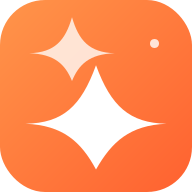
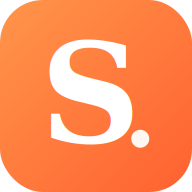
Switch Softly branding to a typography-only wordmark across website and assets
* Redesign Softly logo as typographic wordmark with S. lettermark and matching exports

* build: add optimized Softly brand PNG exports

---------

diff --git a/src/pages/brand.html b/src/pages/brand.html
@@ -6,8 +6,8 @@
       <p class="brand-guide-lede">Softly is an independent design-showcase identity built around a simple belief: an idea should earn attention by making something more meaningful.</p>
       <a class="mini-btn" href="#brand-signature">Explore the signature ↘</a>
     </div>
-    <div class="brand-guide-seal" aria-label="Softly Solutions orange spark symbol with the words Ideas with intention">
-      <img src="/assets/brand/mark.svg" alt="Softly Solutions original spark mark" width="200" height="200" decoding="async">
+    <div class="brand-guide-seal" aria-label="Softly Solutions typographic wordmark with the tagline Ideas with intention">
+      <img class="brand-seal-wordmark" src="/assets/brand/logo-on-dark.svg" alt="Softly Solutions typography-only wordmark" width="460" height="145" decoding="async">
       <span>IDEAS WITH<br><em>INTENTION.</em></span>
       <small>SOFTLY / IDENTITY SYSTEM / 01</small>
     </div>
@@ -29,7 +29,7 @@
         <a href="/assets/brand/logo-on-light.svg" download="softly-logo-on-light.svg" class="brand-download-link">Download SVG ↗</a>
       </article>
     </div>
-    <div class="brand-mark-rule"><div><img src="/assets/brand/mark.svg" alt="Standalone Softly spark mark" width="82" height="82" loading="lazy"><div><strong>The spark</strong><p>Two linked forms suggest the moment an idea becomes clear. Use it as a favicon, avatar, and compact identity.</p></div></div><a class="mini-btn" href="/assets/brand/mark.svg" download="softly-spark.svg">Download symbol ↗</a></div>
+    <div class="brand-mark-rule"><div><img src="/assets/brand/mark.svg" alt="Softly Solutions letter S monogram" width="82" height="82" loading="lazy"><div><strong>The lettermark</strong><p>A compact typographic S with a signature orange field. Use it for favicons, saved shortcuts and square avatars when the full name would be too small.</p></div></div><a class="mini-btn" href="/assets/brand/mark.svg" download="softly-lettermark.svg">Download lettermark ↗</a></div>
   </div>
 </section>
 

diff --git a/src/styles/brand.css b/src/styles/brand.css
@@ -70,3 +70,18 @@
 @media(max-width:900px){.brand-palette-grid{grid-template-columns:repeat(3,minmax(0,1fr));}.brand-color>span{height:100px;}}
 @media(max-width:650px){.brand-guide-intro-grid,.brand-logo-grid,.brand-type-grid,.brand-resources-grid{grid-template-columns:1fr;}.brand-voice-grid{grid-template-columns:1fr;}.brand-guide-seal{min-height:310px;}.brand-logo-panel{min-height:235px;}.brand-color>span{height:78px;}.brand-guide-intro{padding-top:65px;}}
 @media(max-width:360px){.brand-palette-grid{grid-template-columns:repeat(2,minmax(0,1fr));}.brand-mark-rule>div{flex-wrap:wrap;}.brand-color>span{height:100px;}}
+
+
+/* Text-only Softly identity — no pictorial logo, preserving all page compositions. */
+.brand.brand--wordmark{display:inline-flex;min-width:max-content;align-items:center;gap:0;text-decoration:none;}
+.brand.brand--wordmark .brand-lockup{display:flex;flex-direction:column;align-items:flex-start;justify-content:center;min-width:0;gap:0;}
+.brand.brand--wordmark .brand-wordmark{display:block;color:#FFFAF4;font:700 29px/.89 Georgia,"Times New Roman",serif;letter-spacing:-.085em;white-space:nowrap;}
+.brand.brand--wordmark .brand-period{display:inline;color:#FF8A4B;font:inherit;letter-spacing:-.04em;}
+.brand.brand--wordmark .brand-descriptor{display:block;color:#D3B9AC;font:800 7px/1.25 Arial,Helvetica,sans-serif;letter-spacing:.29em;margin:6px 0 0 3px;white-space:nowrap;}
+footer .brand.brand--wordmark .brand-wordmark{color:#211915;font-size:31px;}
+footer .brand.brand--wordmark .brand-descriptor{color:#756256;}
+.brand-guide-seal .brand-seal-wordmark{width:min(310px,86%);max-width:100%;height:auto;filter:drop-shadow(0 15px 22px rgba(0,0,0,.19));}
+@media(max-width:360px){
+ .top-shell .brand.brand--wordmark .brand-wordmark{font-size:25px;}
+ .top-shell .brand.brand--wordmark .brand-descriptor{font-size:6px;}
+}

diff --git a/src/partials/footer.html b/src/partials/footer.html
@@ -2,12 +2,11 @@
         <div class="wrap">
             <div class="footer-grid">
                 <div>
-                    <a class="brand" href="/" style="color:#211915" aria-label="Softly Solutions — home">
-                        <span class="brand-mark"><img src="/assets/brand/mark.svg" alt="" width="32" height="32" loading="lazy" decoding="async"></span>
-                        <span>
-                            <b style="color:#211915">Softly</b>
-                            <span style="color:#8c8178">SOLUTIONS</span>
-                        </span>
+                    <a class="brand brand--wordmark" href="/" aria-label="Softly Solutions — home">
+                        <span class="brand-lockup" aria-hidden="true">
+                        <strong class="brand-wordmark">Softly<span class="brand-period">.</span></strong>
+                        <span class="brand-descriptor">SOLUTIONS</span>
+                    </span>
                     </a>
                     <p>Digital strategy, design, automation, and growth systems for modern teams.</p>
                 </div>

diff --git a/src/partials/nav.html b/src/partials/nav.html
@@ -1,9 +1,8 @@
 <nav aria-label="Primary navigation">
-                <a class="brand" href="/" aria-label="Softly Solutions — home">
-                    <span class="brand-mark"><img src="/assets/brand/mark.svg" alt="" width="32" height="32" decoding="async"></span>
-                    <span>
-                        <b>Softly</b>
-                        <span>SOLUTIONS</span>
+                <a class="brand brand--wordmark" href="/" aria-label="Softly Solutions — home">
+                    <span class="brand-lockup" aria-hidden="true">
+                        <strong class="brand-wordmark">Softly<span class="brand-period">.</span></strong>
+                        <span class="brand-descriptor">SOLUTIONS</span>
                     </span>
                 </a>
 

diff --git a/src/brand/BRAND-GUIDELINES.md b/src/brand/BRAND-GUIDELINES.md
@@ -14,16 +14,17 @@
 
 **Personality:** thoughtful, warm, quietly confident, human, a little playful.
 
-## 02 · Logo and symbol
+## 02 · Typography-only logo
 
-The primary signature combines a soft-square orange signal mark and the two-spark emblem with the Softly / SOLUTIONS wordmark. The linked sparks represent an idea becoming clearer.
+The primary Softly Solutions signature is a **text-only wordmark**: "Softly." set in a high-contrast editorial serif with a warm orange final period, and a small spaced-out "SOLUTIONS" descriptor. It does **not** use a pictorial icon in the navigation, footer or horizontal logo exports.
 
-- Use `logo-on-dark.svg` on espresso or dark photographic backgrounds.
-- Use `logo-on-light.svg` on cream and white backgrounds.
-- Use `mark.svg` for favicon, compact navigation, avatars, and app icons.
-- Maintain at least one-quarter of the logo mark's width as clear space on all sides.
-- Keep the original proportions, colors and letter spacing. Never stretch, rotate, re-color or add outline effects.
-- Minimum digital logo width: 150 CSS px; compact mark minimum: 28 CSS px.
+- Use `logo-on-dark.svg` on espresso or other dark surfaces.
+- Use `logo-on-light.svg` on cream and white surfaces.
+- Use selectable HTML text in the website navigation and footer (not a rasterized logo).
+- At small square sizes only, use `mark.svg`: a typographic **S.** lettermark on an orange field, for browser tabs, app icons and avatars.
+- Maintain at least the cap height of the descriptor as clear space around the full wordmark.
+- Never distort, stretch, rotate, outline, or recolor the signature. Keep the orange period and the original text relationship.
+- Minimum digital full wordmark width: 140 CSS px. Square lettermark minimum: 28 CSS px.
 
 ## 03 · Color
 
@@ -48,7 +49,7 @@ Use pale text on Night, Ink on Paper, and white on orange when sufficient contra
 
 ## 05 · Shape and motion
 
-Large soft-corner sections contrast with compact expressive pills. The spark motif appears sparingly as a focal visual, never as a repeated distracting pattern. Use warm shadowing, slow dimensional hover movement and reduced-motion fallbacks.
+Large soft-corner sections contrast with compact expressive pills. The enlarged typographic S. motif may appear sparingly as a focal visual, never as a distracting pattern. Use warm shadowing, slow dimensional hover movement and reduced-motion fallbacks.
 
 ## 06 · Voice and editorial rules
 
@@ -58,10 +59,10 @@ Large soft-corner sections contrast with compact expressive pills. The spark mot
 
 ## 07 · Social and digital
 
-Social sharing preview: `social-card.png`, 1200 × 630. Avatar and application icon use the spark. `manifest.webmanifest` and touch icons should resolve to first-party assets.
+Social sharing preview: `social-card.png`, 1200 × 630. Avatar and application icon use the typographic S. lettermark. `manifest.webmanifest` and touch icons should resolve to first-party assets.
 
 ## 08 · Implementation
 
-All assets originate in `src/brand/`; the site generator copies them to `dist/assets/brand/`. The `/brand/` website page is the public, interactive brand reference. The package contains vector logos, a social card, icons, token JSON, and this guide.
+All assets originate in `src/brand/`; the site generator copies them to `dist/assets/brand/`. The `/brand/` website page is the public, interactive brand reference. The package contains vector text logos, the typographic lettermark, a social card, icons, token JSON, and this guide.
 
 © 2026 Softly Solutions design showcase. Creative direction only; no trademark or domain registration is represented or implied.

diff --git a/README.md b/README.md
@@ -105,3 +105,7 @@ Softly is a **standalone design-showcase identity**. Its wordmark, two-spark ico
 The complete first-party brand kit is generated during the static build at `/assets/brand/softly-brand-kit.zip`. It includes SVG logos for dark/light backgrounds, the spark mark, raster social and app icons, tokens JSON and written usage guidance. The original warm-espresso and orange design of the homepage is preserved.
 
 PNG exports are generated from the SVG masters with the repo's explicit `generate-brand-assets.yml` workflow and committed to `assets/brand/`. They are static assets, not a runtime CDN dependency. Do not remove the verified generated PNG exports before a production deployment.
+
+## Typography-only logo refresh
+
+The global nav and footer use selectable **Softly. / SOLUTIONS** typography instead of a spark pictogram. Horizontal light/dark logo SVGs use the same text signature with an orange final period. Favicon, app icons and sharing art use letterform-only **S.** typography. No image-generation dependency or frontend font CDN is required.
